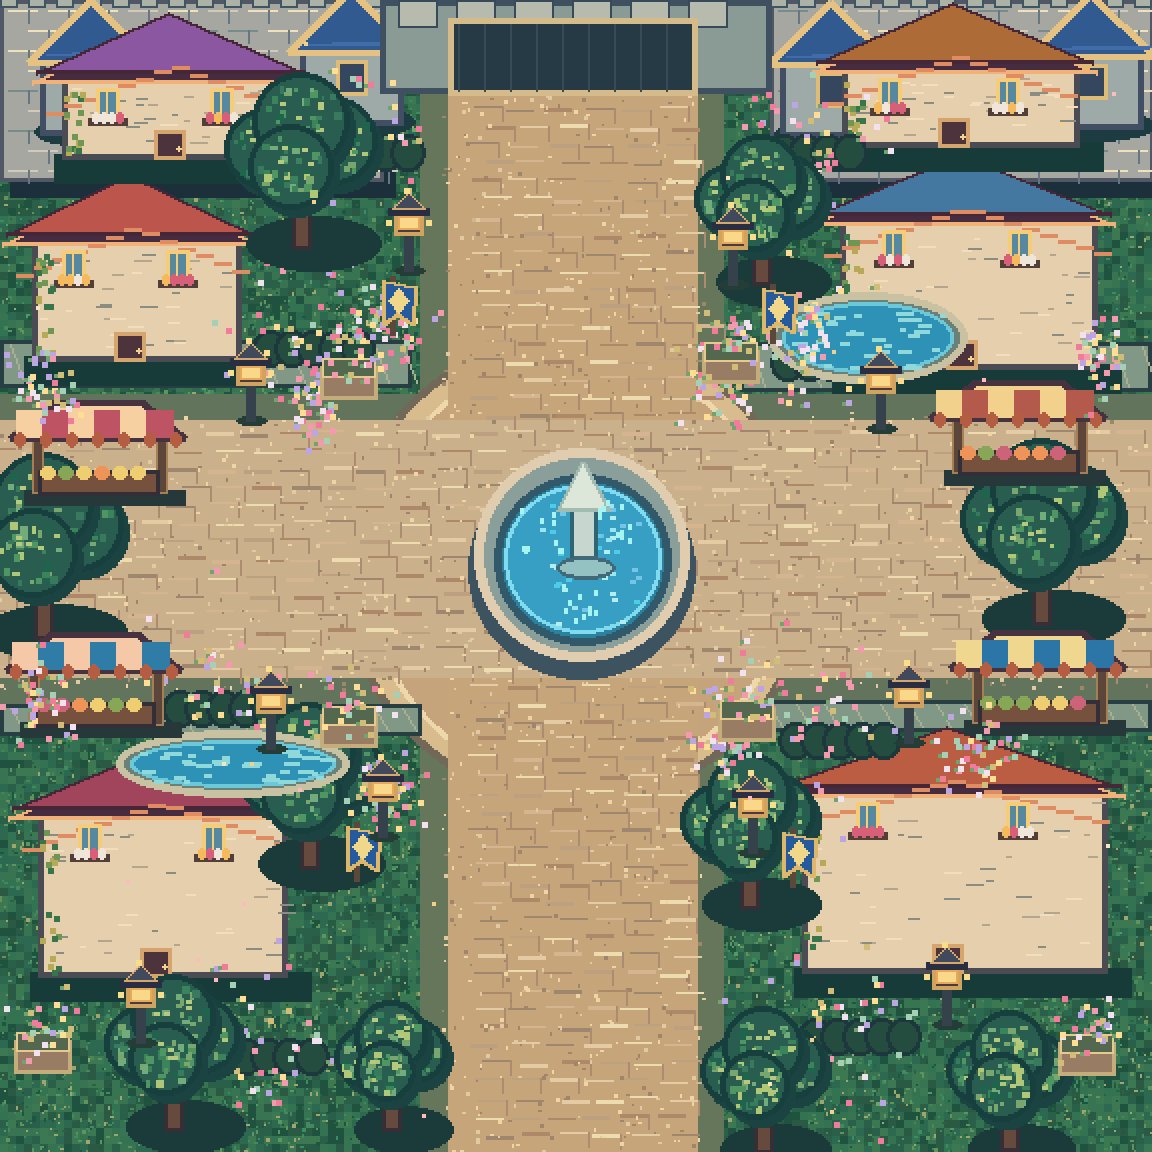
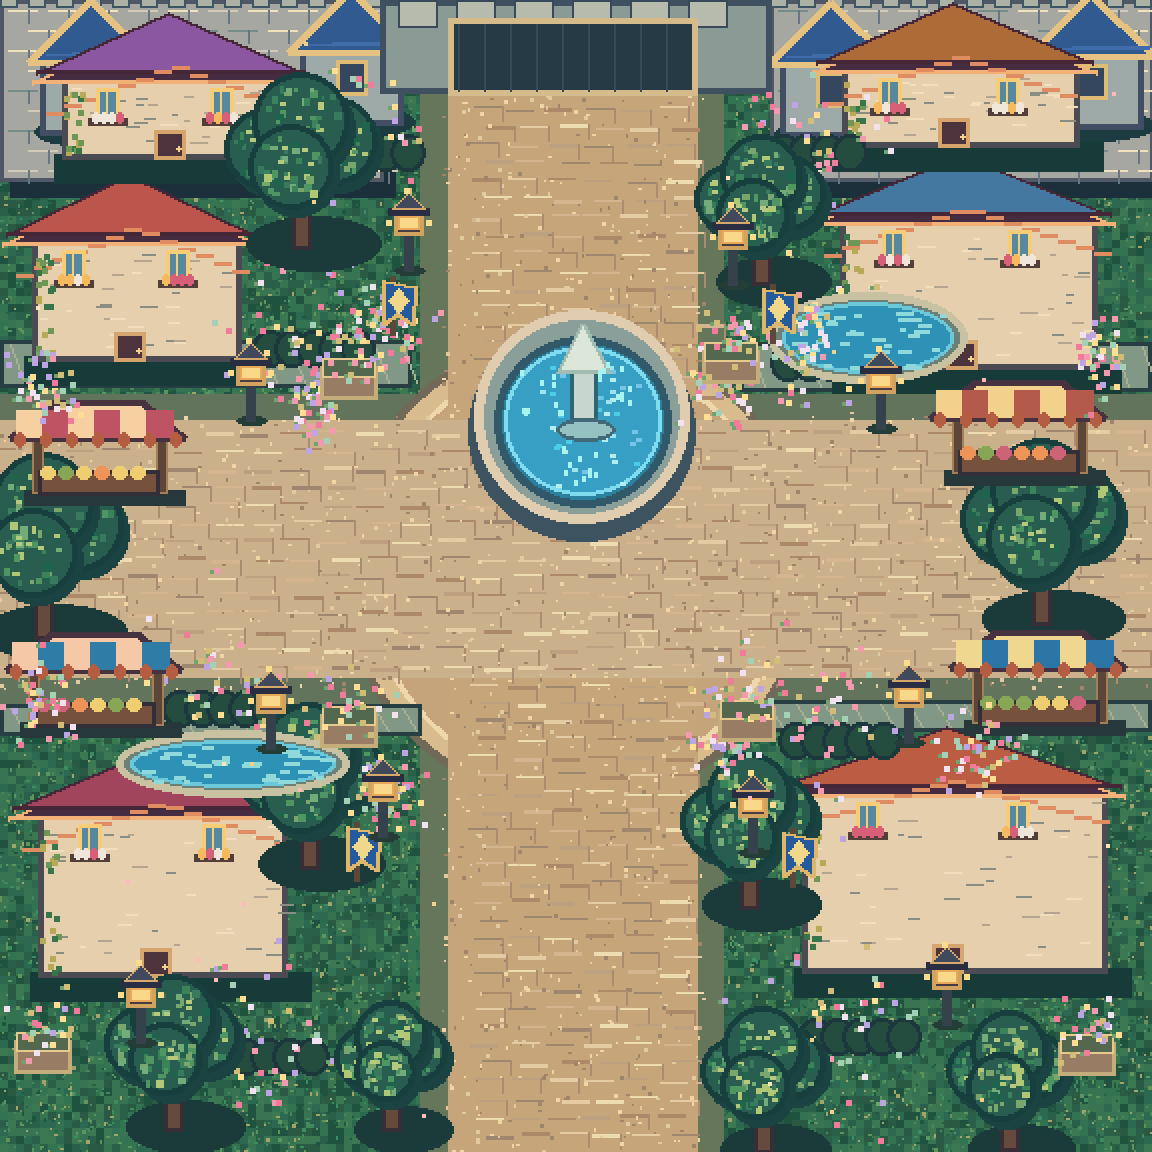
art(v0.6.1): fix town spawn in fountain via generator; keep gameplay unchanged

Changed region(s): [[0.4062, 0.25, 0.625, 0.5938]]

diff --git a/public/asset-gallery.html b/public/asset-gallery.html
@@ -4,7 +4,7 @@
 <meta charset="utf-8">
 <meta name="viewport" content="width=device-width,initial-scale=1,viewport-fit=cover">
 <meta name="theme-color" content="#111827">
-<title>AMBER WORLD CLASS | Asset Lab V0.6</title>
+<title>AMBER WORLD CLASS | Asset Lab V0.6.1</title>
 <style>
 :root{--bg:#0b1524;--box:#15263a;--edge:#9b6c3d;--gold:#f1ce89;--text:#ffeed0}
 *{box-sizing:border-box}body{margin:0;background:linear-gradient(160deg,#15283a,var(--bg) 45%,#080c18);color:var(--text);font-family:system-ui,-apple-system,"Noto Sans Thai",sans-serif}
@@ -33,15 +33,15 @@ a{color:#ffe1a5}p{line-height:1.5}footer{text-align:center;padding:15px;font-siz
 </head>
 <body>
 <header>
-<h1>⚔ AMBER WORLD CLASS <span style="color:#a5e4ef">· ASSET LAB V0.6</span></h1>
+<h1>⚔ AMBER WORLD CLASS <span style="color:#a5e4ef">· ASSET LAB V0.6.1</span></h1>
 <div class="note">ทดลองภาพจริงจากเกม · ไม่ใช้รูปตัวอย่างมาตัดแปะ · Sprite Sheet 8 ทิศ / เอฟเฟกต์ 16 เฟรม</div>
-<a class="control" href="./index.html?v=06">← กลับเข้าเกม</a>
+<a class="control" href="./index.html?v=061">← กลับเข้าเกม</a>
 </header>
 <main>
 <section class="panel">
 <h2>🗺 แผนที่โลก 10 แห่ง</h2>
 <div class="stamp" id="mapLabel">01 · หมู่บ้านอำพัน</div>
-<div class="frame"><img id="mapView" src="./assets/maps/map-01.png?v=06" alt="Amber Village map art"></div>
+<div class="frame"><img id="mapView" src="./assets/maps/map-01.png?v=061" alt="Amber Village map art"></div>
 <div class="controls thumbnail-grid" id="mapButtons"></div>
 <p class="note">แต่ละแมพเป็น PNG ขนาด 1152×1152 และวาดแยกฉากจริง ไม่ใช่การเปลี่ยนสีพื้นหลังอย่างเดียว</p>
 </section>
@@ -71,7 +71,7 @@ a{color:#ffe1a5}p{line-height:1.5}footer{text-align:center;padding:15px;font-siz
 <div class="panel" style="margin-top:10px;padding:10px">
 <b>ข้อมูล Asset Pack</b>
 <p class="note">4 ตัวละคร + ปีก 4 ชุด × 8 ทิศ × 4 เฟรม · มอนสเตอร์ 10 แบบ · บอส 10 แบบ × 8 ทิศ × 4 เฟรม · 4 สกิล × 16 เฟรม · แผนที่ 10 ฉาก</p>
-<p class="note">เป็นชุดต้นแบบ V0.6 ที่ใช้บนเว็บไซต์จริง ยังไม่ใช่งานภาพเก็บรายละเอียดขั้นสุดท้ายและยังไม่ครบ 120 สกิล</p>
+<p class="note">เป็นชุดต้นแบบ V0.6.1 ที่ใช้บนเว็บไซต์จริง ยังไม่ใช่งานภาพเก็บรายละเอียดขั้นสุดท้ายและยังไม่ครบ 120 สกิล</p>
 </div>
 </section>
 </main>
@@ -80,7 +80,7 @@ a{color:#ffe1a5}p{line-height:1.5}footer{text-align:center;padding:15px;font-siz
 'use strict';
 const maps=['หมู่บ้านอำพัน','ป่ามรกต','ทุ่งสายลม','นครหินผา','ทะเลทรายเพลิง','ภูเขาหิมะ','หุบเขามังกร','นครรัตติกาล','ดินแดนสวรรค์','ป้อมจอมมาร'];
 const jobs=['Sword','Archer','Mage','Fighter'],directions=['ลง','ลงซ้าย','ซ้าย','ขึ้นซ้าย','ขึ้น','ขึ้นขวา','ขวา','ลงขวา'];
-const img=(name)=>{const obj=new Image();obj.src='./assets/'+name+'.png?v=06';return obj};
+const img=(name)=>{const obj=new Image();obj.src='./assets/'+name+'.png?v=061';return obj};
 const heroes=jobs.map((_,i)=>img('sprites/hero-'+i));
 const monsters=Array.from({length:10},(_,i)=>img('sprites/mob-'+i));
 const bosses=Array.from({length:10},(_,i)=>img('sprites/boss-'+String(i).padStart(2,'0')));
@@ -102,10 +102,10 @@ function refresh(){
  el('effectLabel').textContent=jobs[effect]+' · RGBA 16 เฟรม (96×96 ต่อเฟรม)';
 }
 maps.forEach((name,i)=>{
- const button=document.createElement('button');button.className='thumb';button.innerHTML='<img loading="lazy" src="./assets/maps/map-'+String(i+1).padStart(2,'0')+'.png?v=06" alt=""><b>'+(i+1)+'</b>';
+ const button=document.createElement('button');button.className='thumb';button.innerHTML='<img loading="lazy" src="./assets/maps/map-'+String(i+1).padStart(2,'0')+'.png?v=061" alt=""><b>'+(i+1)+'</b>';
  button.title=name;
  button.addEventListener('click',()=>{
-  el('mapView').src='./assets/maps/map-'+String(i+1).padStart(2,'0')+'.png?v=06';
+  el('mapView').src='./assets/maps/map-'+String(i+1).padStart(2,'0')+'.png?v=061';
   el('mapLabel').textContent=String(i+1).padStart(2,'0')+' · '+name;
   Array.from(el('mapButtons').children).forEach((b,j)=>b.classList.toggle('active',i===j));
  });

diff --git a/public/index.html b/public/index.html
@@ -5,11 +5,11 @@
   <meta name="viewport" content="width=device-width, initial-scale=1, viewport-fit=cover, maximum-scale=1, user-scalable=no">
   <meta name="theme-color" content="#0d1422">
   <meta name="description" content="AMBER WORLD CLASS V0.6 — original pixel-art MMORPG demo, 10 detailed maps, 8-direction chibi sprites, 16-frame skill animations">
-  <title>AMBER WORLD CLASS • V0.6 Asset Edition</title>
+  <title>AMBER WORLD CLASS • V0.6.1 Asset Fix</title>
 
 
 
-<link rel="stylesheet" href="./style.css?v=06">
+<link rel="stylesheet" href="./style.css?v=061">
 </head>
 <body>
 <div id="app">
@@ -31,6 +31,6 @@
   <div class="toast-wrap" id="toasts"></div>
 </div>
 <script defer src="./config.js"></script>
-<script defer src="./game.js?v=06"></script>
+<script defer src="./game.js?v=061"></script>
 </body>
 </html>

diff --git a/tools/create_art.py b/tools/create_art.py
@@ -149,21 +149,30 @@ for x,y in [(176,70),(397,70),(151,168),(410,175),(106,348),(414,364),(128,522),
  flowers(x,y,45,35)
 # trees only outside roads main
 for ar in [(150,90,34),(380,113,29),(21,283,36),(520,276,36),(154,402,32),(374,424,30),(86,535,30),(504,548,27),(195,540,25),(381,548,28)]:arbor(*ar)
+# V0.6.1 visual correction: keep the player spawn on the paved plaza, never inside fountain water.
+# Change only fountain graphics; all world coordinates and combat remain unchanged.
+FOUNTAIN_Y_OFFSET=-69
+def town_ellipse(b,*a,**kw):
+ return ellipse((b[0],b[1]+FOUNTAIN_Y_OFFSET,b[2],b[3]+FOUNTAIN_Y_OFFSET),*a,**kw)
+def town_rect(b,*a,**kw):
+ return rect((b[0],b[1]+FOUNTAIN_Y_OFFSET,b[2],b[3]+FOUNTAIN_Y_OFFSET),*a,**kw)
+def town_poly(points,*a,**kw):
+ return poly([(x,y+FOUNTAIN_Y_OFFSET) for x,y in points],*a,**kw)
 # fountain circular central stone basin / water animated glints not static sprite player overlap
-ellipse((234,230,347,339),'#3e5360')
-ellipse((237,224,344,330),'#8a9e9a','#e0cdb0',5)
-ellipse((247,237,335,322),'#2c819f','#32596a',4)
-ellipse((252,242,330,316),'#379fc4','#80dbef',2)
+town_ellipse((234,230,347,339),'#3e5360')
+town_ellipse((237,224,344,330),'#8a9e9a','#e0cdb0',5)
+town_ellipse((247,237,335,322),'#2c819f','#32596a',4)
+town_ellipse((252,242,330,316),'#379fc4','#80dbef',2)
 for k in range(100):
  a=R.uniform(0,2*math.pi);rr=R.uniform(4,35);x=int(291+rr*math.cos(a));y=int(282+rr*math.sin(a))
- if R.random()<.46:rect((x,y,x+2,y+1),R.choice(['#b3edee','#4dcde5','#74c5e7','#9ce5ee']))
-rect((285,254,298,281),'#c7d7d0','#2e6773',2)
-poly([(279,255),(291,231),(304,255)],'#dce7d9','#a3bcb2',2)
-ellipse((278,278,307,289),'#94c2c3','#426977',2)
+ if R.random()<.46:town_rect((x,y,x+2,y+1),R.choice(['#b3edee','#4dcde5','#74c5e7','#9ce5ee']))
+town_rect((285,254,298,281),'#c7d7d0','#2e6773',2)
+town_poly([(279,255),(291,231),(304,255)],'#dce7d9','#a3bcb2',2)
+town_ellipse((278,278,307,289),'#94c2c3','#426977',2)
 for p in [(270,265),(306,260),(289,298)]:
  for j in range(10):
   x=p[0]+R.randint(-10,10);y=p[1]+R.randint(-11,11)
-  rect((x,y,x+1,y+2),'#a6f4f0')
+  town_rect((x,y,x+1,y+2),'#a6f4f0')
 # water canals small ponds along green edge
 for x,y,w,h in [(384,146,99,45),(58,365,116,33)]:
  ellipse((x,y,x+w,y+h),'#6b8177','#c8c1a2',4)

diff --git a/docs/ART_V06.md b/docs/ART_V06.md
@@ -25,3 +25,9 @@ python tools/create_art.py
 python tools/create_skill_fx.py
 ```
 This overwrites only the V0.6 art files in `public/assets/`; test in Asset Gallery and gameplay before merging new revisions.
+
+## V0.6.1 visual spawn correction
+- The starter-town map fountain was north-shifted in the ORIGINAL ART GENERATOR to prevent player starting inside water (saved player spawn remains x570/y656).
+- The image stays 1152 × 1152 PNG, generated natively as world art, without cutting a reference poster.
+- Client gameplay, collision, server positions, progress, Supabase and the 55 AMBERLANDS project are unchanged.
+- Visual target reference quality is NOT yet achieved: this is a narrowly scoped visual bug fix, not a completed asset pack.
